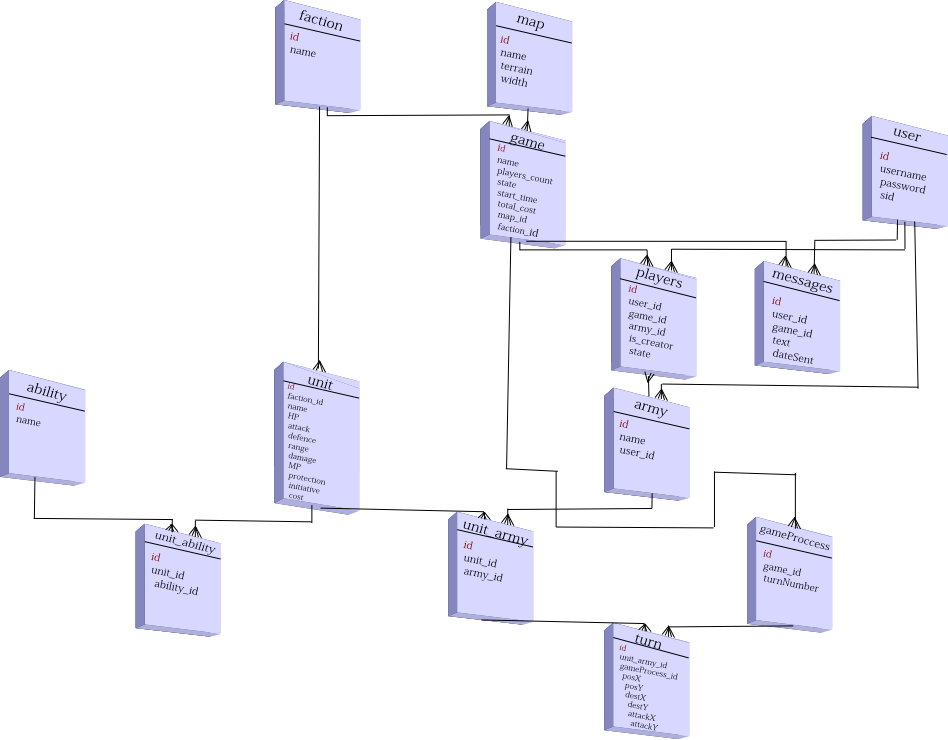
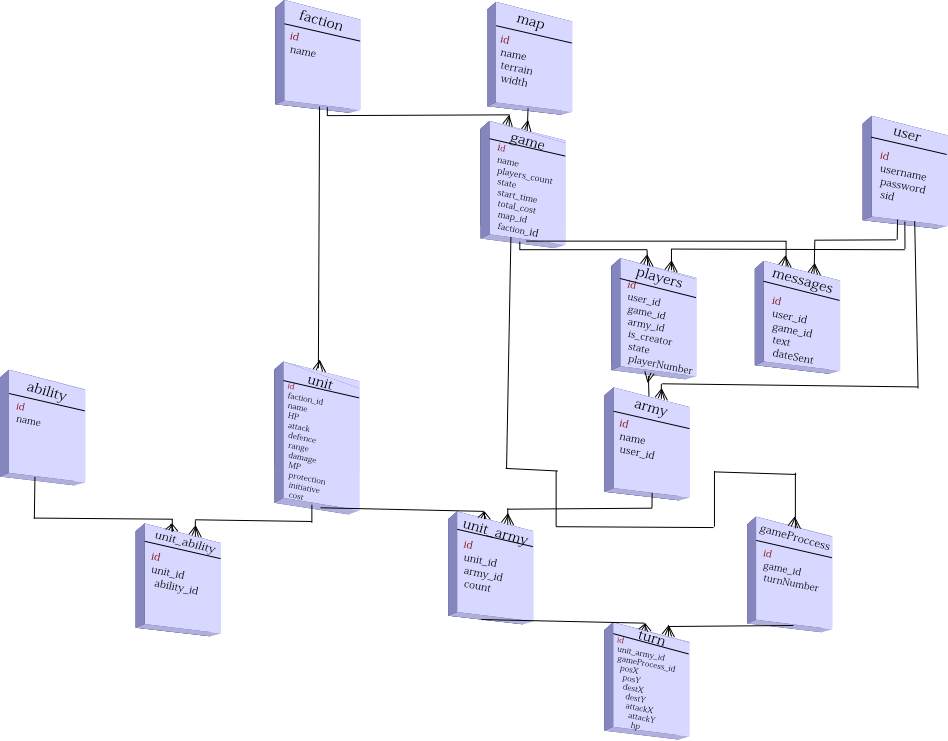
Change db design and commands for updated tables

diff --git a/src/commands.py b/src/commands.py
@@ -236,8 +236,9 @@ def setPlayerStatus(sid, status):
     player.state = status
     query = dbi().query(Player).join(Game).filter(Game.id==player.game_id)
     if player.game.players_count == query.filter(Player.state=='ready').count():
-        for p in player.game.players:
+        for index, p in enumerate(player.game.players):
             p.state = 'in_game'
+            p.player_number = index + 1
         player.game.state = 'started'
         dbi().add(GameProcess(player.game.id, 0)) # Zero turn is when players place their units on terrain
     dbi().commit()
@@ -417,7 +418,7 @@ def move(sid, turn, units):
     if turn != processes[-1].turnNumber:
         raise BadTurn("Not actual turn number")
     for u in units:
-        fields = ["posX", "posY", "destX", "destY", "attackX", "attackY"]
+        fields = ["posX", "posY", "destX", "destY", "attackX", "attackY", "hp"]
         if not(isinstance(u, dict) and
             functools.reduce(lambda x,y: x and y, map(lambda f: f in u, fields))
         ):
